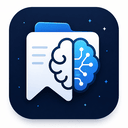
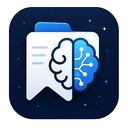
assets file updated and ai feature package added

diff --git a/src/background/background.js b/src/background/background.js
@@ -244,5 +244,3 @@ chrome.runtime.onMessage.addListener((message, sender, sendResponse) => {
         return true;
     }
 });
-
-console.log('MemoryTab background service worker started');